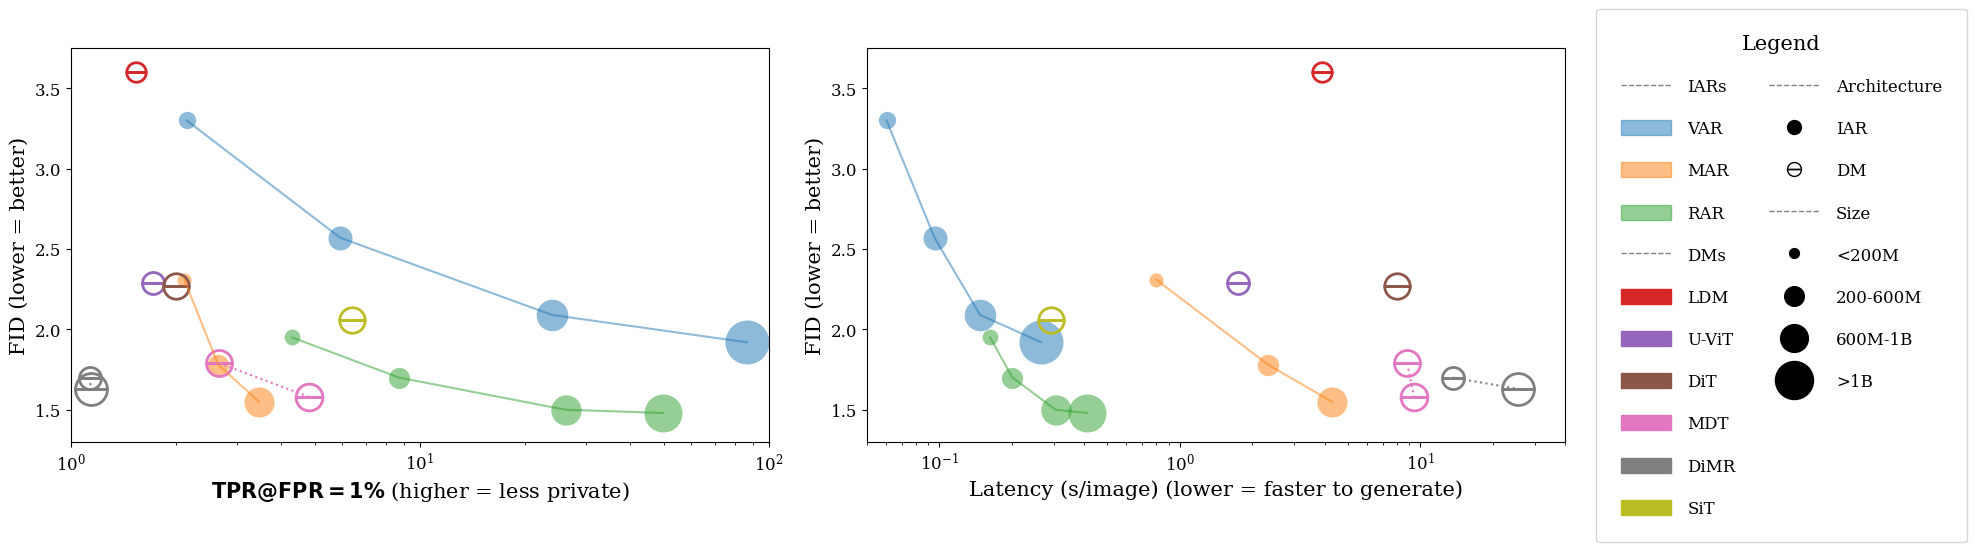
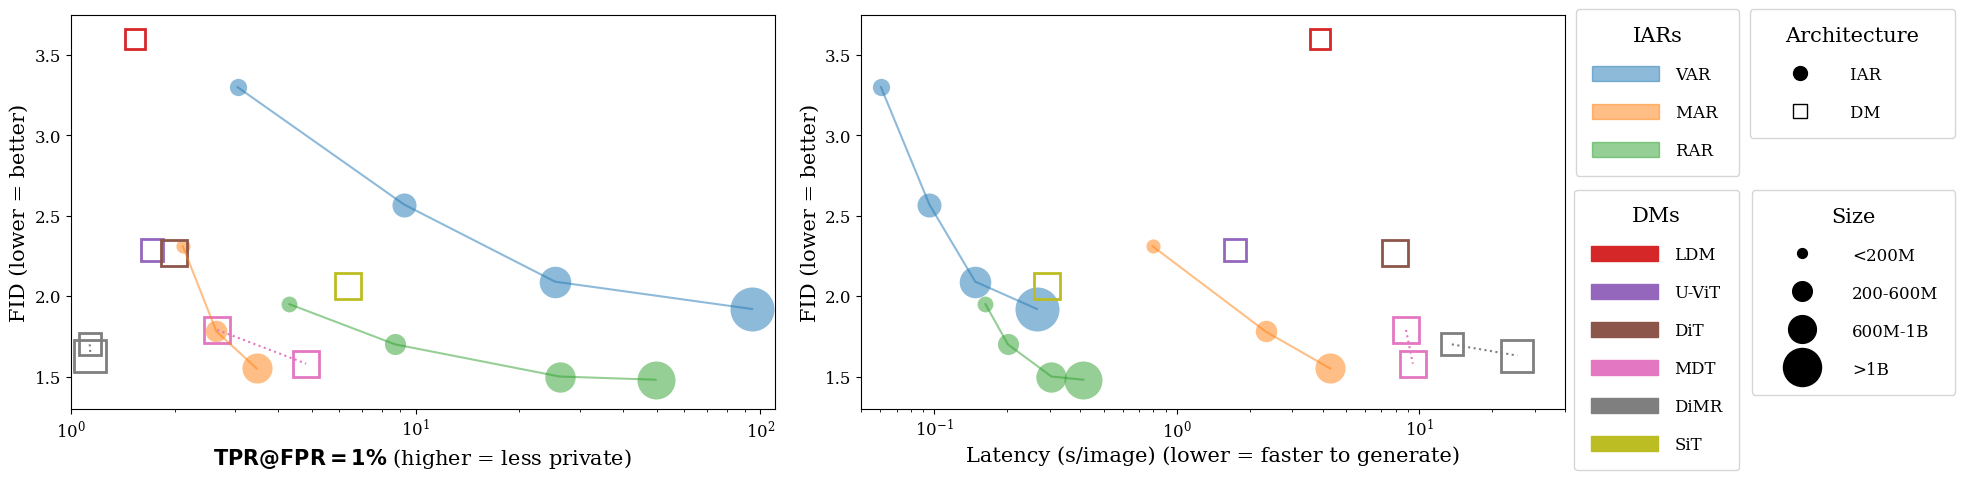
Auto-backup commit on Wed 04 Feb 2026 01:32:39 PM CET

diff --git a/public/blog/priv_iar/index.html b/public/blog/priv_iar/index.html
@@ -8,8 +8,8 @@
 <title>Privacy Attacks On Image AutoRegressive Models | Antoni Kowalczuk</title>
 <meta name="keywords" content="blog, paper">
 <meta name="description" content="
-  
   Accepted to ICML 2025 (Poster)
+  
 
 
   Authors:
@@ -94,8 +94,8 @@ Code
 <meta name="twitter:card" content="summary">
 <meta name="twitter:title" content="Privacy Attacks On Image AutoRegressive Models">
 <meta name="twitter:description" content="
-  
   Accepted to ICML 2025 (Poster)
+  
 
 
   Authors:
@@ -148,8 +148,8 @@ Code
   "keywords": [
     "blog", "paper"
   ],
-  "articleBody": " Accepted to ICML 2025 (Poster) Authors: 1Antoni Kowalczuk*, 2,3Jan Dubiński*, 1Franziska Boenisch, 1Adam Dziedzic 1CISPA Helmholtz Center for Information Security\n2Warsaw University of Technology\n3IDEAS NCBR\n*Indicates Equal Contribution Code arXiv ICML Poster OpenReview Privacy-utility and generation speed-performance trade-off for Image AutoRegressive Models (IARs) compared to Diffusion Models (DMs.) Abstract Image AutoRegressive generation has emerged as a new powerful paradigm with image autoregressive models (IARs) surpassing state-of-the-art diffusion models (DMs) in both image quality (FID: 1.48 vs. 1.58) and generation speed. However, the privacy risks associated with IARs remain unexplored, raising concerns regard- ing their responsible deployment. To address this gap, we conduct a comprehensive privacy analysis of IARs, comparing their privacy risks to the ones of DMs as reference points. Concretely, we develop a novel membership inference attack (MIA) that achieves a remarkably high success rate in detecting training images (with a TPR@FPR=1% of 86.38% vs. 4.91% for DMs with comparable attacks). We leverage our novel MIA to provide dataset inference (DI) for IARs, and show that it requires as few as 6 samples to detect dataset membership (compared to 200 for DI in DMs), confirming a higher information leakage in IARs. Finally, we are able to extract hundreds of training data points from an IAR (e.g., 698 from VAR-d30). Our results demonstrate a fundamental privacy-utility trade-off: while IARs excel in image generation quality and speed, they are significantly more vulnerable to privacy attacks compared to DMs. This trend suggests that utilizing techniques from DMs within IARs, such as modeling the per-token probability distribution using a diffusion procedure, holds potential to help mitigating IARs’ vulnerability to privacy attacks. Contributions Our new MIA for IARs achieves extremely strong performance of even 86.38% TPR@FPR, improving over naive application of MIAs by up to 69%. We provide a potent DI method for IARs, which requires as few as 6 samples to assess dataset membership signal. We propose an efficient method of training data extraction from IARs, and successfully extract up to 698 images. IARs outperform DMs in generation efficiency and quality but suffer order-of-magnitude higher privacy leakage compared to them in MIAs, DI, and data extraction. Membership Inference Attacks Results Model VAR-d16 VAR-d20 VAR-d24 VAR-d30 MAR-B MAR-L MAR-H RAR-B RAR-L RAR-XL RAR-XXL Baselines 1.62 2.21 3.72 16.68 1.69 1.89 2.18 2.36 3.25 6.27 14.62 Our Methods 2.16 5.95 24.03 86.38 2.09 2.61 3.40 4.30 8.66 26.14 49.80 Improvement +0.54 +3.73 +20.30 +69.69 +0.40 +0.73 +1.22 +1.94 +5.41 +19.87 +35.17 We improve over baseline Membership Inference Attacks by up to 69.69% for VAR-d30.\nDataset Inference Results Model VAR-d16 VAR-d20 VAR-d24 VAR-d30 MAR-B MAR-L MAR-H RAR-B RAR-L RAR-XL RAR-XXL Baseline 2000 300 60 20 5000 2000 900 500 200 40 30 +Optimized Procedure 600 200 40 8 4000 2000 800 300 80 30 10 Improvement -1400 -100 -20 -12 -1000 0 -100 -200 -120 -10 -20 +Our MIAs for IARs 200 40 20 6 2000 600 300 80 30 20 8 Improvement -400 -160 -20 -2 -2000 -1400 -500 -220 -50 -10 -2 Data Extraction We successfully perform data extraction attack against IARs, extracting up to 698 images. We extract 698 images for VAR-d30, 5 images for MAR-H, and 36 images for RAR-XXL.\nExtracted Training Samples. IARs can reconstruct verbatim images from their training data. The first row shows the original training samples, and the second presents the extracted images. Bibtex @InProceedings{kowalczuk2025privacy, title = {Privacy Attacks on Image {A}uto{R}egressive Models}, author = {Kowalczuk, Antoni and Dubi\\'{n}ski, Jan and Boenisch, Franziska and Dziedzic, Adam}, booktitle = {Proceedings of the 42nd International Conference on Machine Learning}, pages = {31667--31695}, year = {2025}, volume = {267}, series = {Proceedings of Machine Learning Research}, month = {13--19 Jul}, publisher = {PMLR}, pdf = {https://raw.githubusercontent.com/mlresearch/v267/main/assets/kowalczuk25a/kowalczuk25a.pdf}, url = {https://proceedings.mlr.press/v267/kowalczuk25a.html}, } ",
-  "wordCount" : "620",
+  "articleBody": " Accepted to ICML 2025 (Poster) Authors: 1Antoni Kowalczuk*, 2,3Jan Dubiński*, 1Franziska Boenisch, 1Adam Dziedzic 1CISPA Helmholtz Center for Information Security\n2Warsaw University of Technology\n3IDEAS NCBR\n*Indicates Equal Contribution Code arXiv ICML Poster OpenReview Privacy-utility and generation speed-performance trade-off for Image AutoRegressive Models (IARs) compared to Diffusion Models (DMs.) Abstract Image AutoRegressive generation has emerged as a new powerful paradigm with image autoregressive models (IARs) surpassing state-of-the-art diffusion models (DMs) in both image quality (FID: 1.48 vs. 1.58) and generation speed. However, the privacy risks associated with IARs remain unexplored, raising concerns regard- ing their responsible deployment. To address this gap, we conduct a comprehensive privacy analysis of IARs, comparing their privacy risks to the ones of DMs as reference points. Concretely, we develop a novel membership inference attack (MIA) that achieves a remarkably high success rate in detecting training images (with a TPR@FPR=1% of 94.57% vs. 6.38% for DMs with comparable attacks). We leverage our novel MIA to provide dataset inference (DI) for IARs, and show that it requires as few as 4 samples to detect dataset membership (compared to 200 for DI in DMs), confirming a higher information leakage in IARs. Finally, we are able to extract hundreds of training data points from an IAR (e.g., 698 from VAR-d30). Our results demonstrate a fundamental privacy-utility trade-off: while IARs excel in image generation quality and speed, they are significantly more vulnerable to privacy attacks compared to DMs. This trend suggests that utilizing techniques from DMs within IARs, such as modeling the per-token probability distribution using a diffusion procedure, holds potential to help mitigating IARs’ vulnerability to privacy attacks. Contributions Our new MIA for IARs achieves extremely strong performance of even 94.57% TPR@FPR, improving over naive application of MIAs by up to 77%. We provide a potent DI method for IARs, which requires as few as 4 samples to assess dataset membership signal. We propose an efficient method of training data extraction from IARs, and successfully extract up to 698 images. IARs outperform DMs in generation efficiency and quality but suffer order-of-magnitude higher privacy leakage compared to them in MIAs, DI, and data extraction. Membership Inference Attacks Results Model VAR-d16 VAR-d20 VAR-d24 VAR-d30 MAR-B MAR-L MAR-H RAR-B RAR-L RAR-XL RAR-XXL Baselines 1.62 2.21 3.72 16.68 1.69 1.89 2.18 2.36 3.25 6.27 14.62 Our Methods 3.05 9.26 25.39 94.57 2.09 2.61 3.40 4.30 8.66 26.14 49.80 Improvement +1.43 +7.05 +21.67 +77.89 +0.40 +0.73 +1.22 +1.94 +5.41 +19.87 +35.17 We improve over baseline Membership Inference Attacks by up to 69.69% for VAR-d30.\nDataset Inference Results Model VAR-d16 VAR-d20 VAR-d24 VAR-d30 MAR-B MAR-L MAR-H RAR-B RAR-L RAR-XL RAR-XXL Baseline 2000 300 60 20 5000 2000 900 500 200 40 30 +Optimized Procedure 600 200 40 8 4000 2000 800 300 80 30 10 Improvement -1400 -100 -20 -12 -1000 0 -100 -200 -120 -10 -20 +Our MIAs for IARs 100 20 7 4 2000 600 300 80 30 20 8 Improvement -500 -180 -33 -4 -2000 -1400 -500 -220 -50 -10 -2 Data Extraction We successfully perform data extraction attack against IARs, extracting up to 698 images. We extract 698 images for VAR-d30, 5 images for MAR-H, and 36 images for RAR-XXL.\nExtracted Training Samples. IARs can reconstruct verbatim images from their training data. The first row shows the original training samples, and the second presents the extracted images. Bibtex @InProceedings{kowalczuk2025privacy, title = {Privacy Attacks on Image {A}uto{R}egressive Models}, author = {Kowalczuk, Antoni and Dubi\\'{n}ski, Jan and Boenisch, Franziska and Dziedzic, Adam}, booktitle = {Proceedings of the 42nd International Conference on Machine Learning}, pages = {31667--31695}, year = {2025}, volume = {267}, series = {Proceedings of Machine Learning Research}, month = {13--19 Jul}, publisher = {PMLR}, pdf = {https://raw.githubusercontent.com/mlresearch/v267/main/assets/kowalczuk25a/kowalczuk25a.pdf}, url = {https://proceedings.mlr.press/v267/kowalczuk25a.html}, } Acknowledgment We would like to thank Bihe Zhao for identifying a configuration issue in our VAR experiments.\n",
+  "wordCount" : "637",
   "inLanguage": "en",
   "datePublished": "2025-02-05T00:00:00Z",
   "dateModified": "2025-02-05T00:00:00Z",
@@ -261,7 +261,9 @@ Code
                 <li>
                     <a href="#data-extraction" aria-label="Data Extraction">Data Extraction</a></li>
                 <li>
-                    <a href="#bibtex" aria-label="Bibtex">Bibtex</a>
+                    <a href="#bibtex" aria-label="Bibtex">Bibtex</a></li>
+                <li>
+                    <a href="#acknowledgment" aria-label="Acknowledgment">Acknowledgment</a>
                 </li>
             </ul>
         </div>
@@ -276,14 +278,14 @@ Code
   margin-bottom: 25px;
   margin-top: 10px;
 ">
-  <img src="../../files/priv_iar/ICML-logo.svg" 
-       alt="ICML Logo" 
-       style="height: 50px; width: auto; background-color: white;" />
   <span style="
     font-size: 40px; 
     font-weight: bold; 
     font-family: sans-serif; 
   ">Accepted to ICML 2025 (Poster)</span>
+  <img src="../../files/priv_iar/ICML-logo.svg" 
+       alt="ICML Logo" 
+       style="height: 50px; width: auto; background-color: white;" />
 </div>
 <center>
   <strong>Authors:</strong>
@@ -423,9 +425,9 @@ ing their responsible deployment. To address this gap, we conduct a comprehensiv
 privacy analysis of IARs, comparing their privacy risks to the ones of DMs as
 reference points. Concretely, we develop a novel membership inference attack
 (MIA) that achieves a remarkably high success rate in detecting training images
-(with a TPR@FPR=1% of 86.38% vs. 4.91% for DMs with comparable attacks).
+(with a TPR@FPR=1% of 94.57% vs. 6.38% for DMs with comparable attacks).
 We leverage our novel MIA to provide dataset inference (DI) for IARs, and show
-that it requires as few as 6 samples to detect dataset membership (compared to
+that it requires as few as 4 samples to detect dataset membership (compared to
 200 for DI in DMs), confirming a higher information leakage in IARs. Finally, we
 are able to extract hundreds of training data points from an IAR (e.g., 698 from
 VAR-<i>d</i>30). Our results demonstrate a fundamental privacy-utility trade-off: while
@@ -438,10 +440,10 @@ vulnerability to privacy attacks.
 <h2 id="contributions">Contributions<a hidden class="anchor" aria-hidden="true" href="#contributions">#</a></h2>
 <ul>
 <li>
-  Our new MIA for IARs achieves extremely strong performance of even <strong>86.38%</strong> TPR@FPR, improving over naive application of MIAs by up to <strong>69%</strong>.
+  Our new MIA for IARs achieves extremely strong performance of even <strong>94.57%</strong> TPR@FPR, improving over naive application of MIAs by up to <strong>77%</strong>.
 </li>
 <li>
-  We provide a potent DI method for IARs, which requires as few as <strong>6</strong> samples to assess dataset membership signal.
+  We provide a potent DI method for IARs, which requires as few as <strong>4</strong> samples to assess dataset membership signal.
 </li>
 <li>
   We propose an efficient method of training data extraction from IARs, and successfully extract up to <strong>698</strong> images.
@@ -485,10 +487,10 @@ vulnerability to privacy attacks.
       </tr>
       <tr>
           <td>Our Methods</td>
-          <td><strong>2.16</strong></td>
-          <td><strong>5.95</strong></td>
-          <td><strong>24.03</strong></td>
-          <td><strong>86.38</strong></td>
+          <td><strong>3.05</strong></td>
+          <td><strong>9.26</strong></td>
+          <td><strong>25.39</strong></td>
+          <td><strong>94.57</strong></td>
           <td><strong>2.09</strong></td>
           <td><strong>2.61</strong></td>
           <td><strong>3.40</strong></td>
@@ -499,10 +501,10 @@ vulnerability to privacy attacks.
       </tr>
       <tr>
           <td>Improvement</td>
-          <td><strong>+0.54</strong></td>
-          <td><strong>+3.73</strong></td>
-          <td><strong>+20.30</strong></td>
-          <td><strong>+69.69</strong></td>
+          <td><strong>+1.43</strong></td>
+          <td><strong>+7.05</strong></td>
+          <td><strong>+21.67</strong></td>
+          <td><strong>+77.89</strong></td>
           <td><strong>+0.40</strong></td>
           <td><strong>+0.73</strong></td>
           <td><strong>+1.22</strong></td>
@@ -577,10 +579,10 @@ vulnerability to privacy attacks.
       </tr>
       <tr>
           <td>+Our MIAs for IARs</td>
-          <td><strong>200</strong></td>
-          <td><strong>40</strong></td>
+          <td><strong>100</strong></td>
           <td><strong>20</strong></td>
-          <td><strong>6</strong></td>
+          <td><strong>7</strong></td>
+          <td><strong>4</strong></td>
           <td><strong>2000</strong></td>
           <td><strong>600</strong></td>
           <td><strong>300</strong></td>
@@ -591,10 +593,10 @@ vulnerability to privacy attacks.
       </tr>
       <tr>
           <td>Improvement</td>
-          <td>-400</td>
-          <td>-160</td>
-          <td>-20</td>
-          <td>-2</td>
+          <td>-500</td>
+          <td>-180</td>
+          <td>-33</td>
+          <td>-4</td>
           <td>-2000</td>
           <td>-1400</td>
           <td>-500</td>
@@ -629,7 +631,9 @@ vulnerability to privacy attacks.
   pdf = 	 {https://raw.githubusercontent.com/mlresearch/v267/main/assets/kowalczuk25a/kowalczuk25a.pdf},
   url = 	 {https://proceedings.mlr.press/v267/kowalczuk25a.html},
 }
-</code></pre>
+</code></pre><h2 id="acknowledgment">Acknowledgment<a hidden class="anchor" aria-hidden="true" href="#acknowledgment">#</a></h2>
+<p>We would like to thank Bihe Zhao for identifying a configuration issue in our VAR experiments.</p>
+
 
   </div>
 

diff --git a/content/blog/priv_iar.md b/content/blog/priv_iar.md
@@ -13,14 +13,14 @@ date: "2025-02-05"
   margin-bottom: 25px;
   margin-top: 10px;
 ">
-  <img src="../../files/priv_iar/ICML-logo.svg" 
-       alt="ICML Logo" 
-       style="height: 50px; width: auto; background-color: white;" />
   <span style="
     font-size: 40px; 
     font-weight: bold; 
     font-family: sans-serif; 
   ">Accepted to ICML 2025 (Poster)</span>
+  <img src="../../files/priv_iar/ICML-logo.svg" 
+       alt="ICML Logo" 
+       style="height: 50px; width: auto; background-color: white;" />
 </div>
 
 <center>
@@ -171,9 +171,9 @@ ing their responsible deployment. To address this gap, we conduct a comprehensiv
 privacy analysis of IARs, comparing their privacy risks to the ones of DMs as
 reference points. Concretely, we develop a novel membership inference attack
 (MIA) that achieves a remarkably high success rate in detecting training images
-(with a TPR@FPR=1% of 86.38% vs. 4.91% for DMs with comparable attacks).
+(with a TPR@FPR=1% of 94.57% vs. 6.38% for DMs with comparable attacks).
 We leverage our novel MIA to provide dataset inference (DI) for IARs, and show
-that it requires as few as 6 samples to detect dataset membership (compared to
+that it requires as few as 4 samples to detect dataset membership (compared to
 200 for DI in DMs), confirming a higher information leakage in IARs. Finally, we
 are able to extract hundreds of training data points from an IAR (e.g., 698 from
 VAR-<i>d</i>30). Our results demonstrate a fundamental privacy-utility trade-off: while
@@ -188,10 +188,10 @@ vulnerability to privacy attacks.
 
 <ul>
 <li>
-  Our new MIA for IARs achieves extremely strong performance of even <strong>86.38%</strong> TPR@FPR, improving over naive application of MIAs by up to <strong>69%</strong>.
+  Our new MIA for IARs achieves extremely strong performance of even <strong>94.57%</strong> TPR@FPR, improving over naive application of MIAs by up to <strong>77%</strong>.
 </li>
 <li>
-  We provide a potent DI method for IARs, which requires as few as <strong>6</strong> samples to assess dataset membership signal.
+  We provide a potent DI method for IARs, which requires as few as <strong>4</strong> samples to assess dataset membership signal.
 </li>
 <li>
   We propose an efficient method of training data extraction from IARs, and successfully extract up to <strong>698</strong> images.
@@ -206,8 +206,8 @@ vulnerability to privacy attacks.
 | **Model**   | **VAR-*d*16** | **VAR-*d*20** | **VAR-*d*24** | **VAR-*d*30** | **MAR-B** | **MAR-L** | **MAR-H** | **RAR-B** | **RAR-L** | **RAR-XL** | **RAR-XXL** |
 |-------------|----------------------|----------------------|----------------------|----------------------|-----------|-----------|-----------|-----------|-----------|------------|-------------|
 | Baselines   | 1.62                 | 2.21                 | 3.72                 | 16.68                | 1.69      | 1.89      | 2.18      | 2.36      | 3.25      | 6.27       | 14.62       |
-| Our Methods | **2.16**             | **5.95**             | **24.03**            | **86.38**            | **2.09**  | **2.61**  | **3.40**  | **4.30**  | **8.66**  | **26.14**  | **49.80**   |
-| Improvement | **+0.54**            | **+3.73**            | **+20.30**           | **+69.69**           | **+0.40** | **+0.73** | **+1.22** | **+1.94** | **+5.41** | **+19.87** | **+35.17**  |
+| Our Methods | **3.05**             | **9.26**             | **25.39**            | **94.57**            | **2.09**  | **2.61**  | **3.40**  | **4.30**  | **8.66**  | **26.14**  | **49.80**   |
+| Improvement | **+1.43**            | **+7.05**            | **+21.67**           | **+77.89**           | **+0.40** | **+0.73** | **+1.22** | **+1.94** | **+5.41** | **+19.87** | **+35.17**  |
 
 We improve over baseline Membership Inference Attacks by up to **69.69%** for VAR-*d*30. 
 
@@ -218,8 +218,8 @@ We improve over baseline Membership Inference Attacks by up to **69.69%** for VA
 | Baseline             | 2000          | 300           | 60            | 20            | 5000      | 2000      | 900       | 500       | 200       | 40         | 30          |
 | +Optimized Procedure | 600           | 200           | 40            | 8             | 4000      | 2000      | 800       | 300       | 80        | 30         | 10          |
 | Improvement          | -1400         | -100          | -20           | -12           | -1000     | 0         | -100      | -200      | -120      | -10        | -20         |
-| +Our MIAs for IARs   | **200**       | **40**        | **20**        | **6**         | **2000**  | **600**   | **300**   | **80**    | **30**    | **20**     | **8**       |
-| Improvement          | -400          | -160          | -20           | -2            | -2000     | -1400     | -500      | -220      | -50       | -10        | -2          |
+| +Our MIAs for IARs   | **100**       | **20**        | **7**        | **4**         | **2000**  | **600**   | **300**   | **80**    | **30**    | **20**     | **8**       |
+| Improvement          | -500          | -180          | -33           | -4            | -2000     | -1400     | -500      | -220      | -50       | -10        | -2          |
 
 ## Data Extraction
 
@@ -252,3 +252,6 @@ We successfully perform data extraction attack against IARs, extracting up to **
   url = 	 {https://proceedings.mlr.press/v267/kowalczuk25a.html},
 }
 ```
+## Acknowledgment 
+
+We would like to thank Bihe Zhao for identifying a configuration issue in our VAR experiments.
